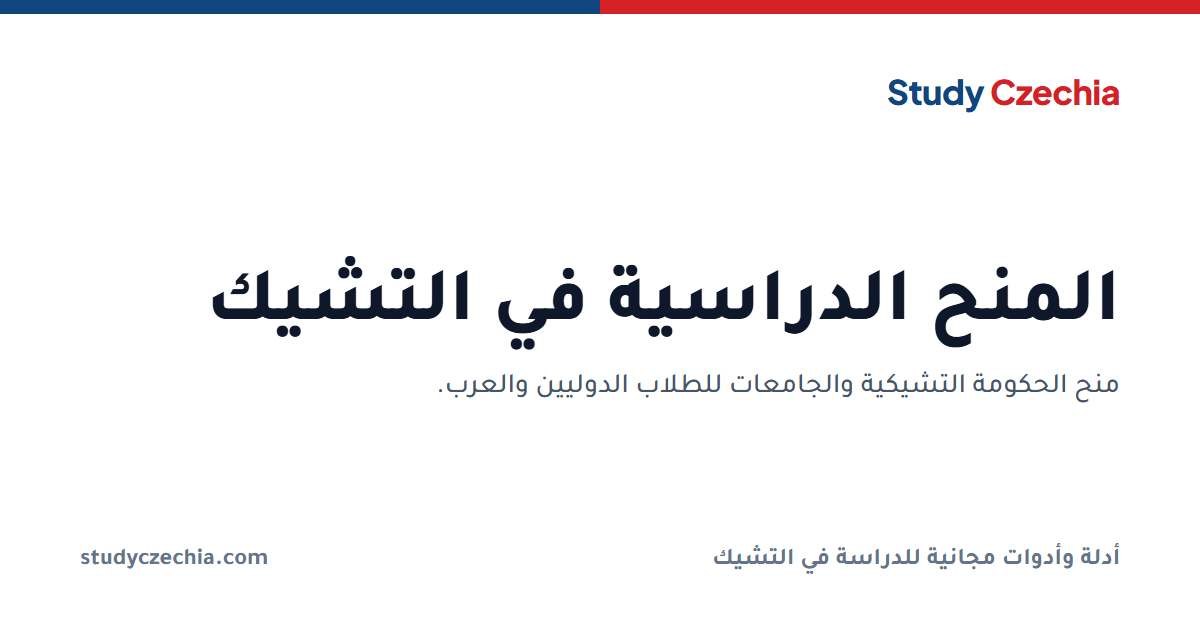
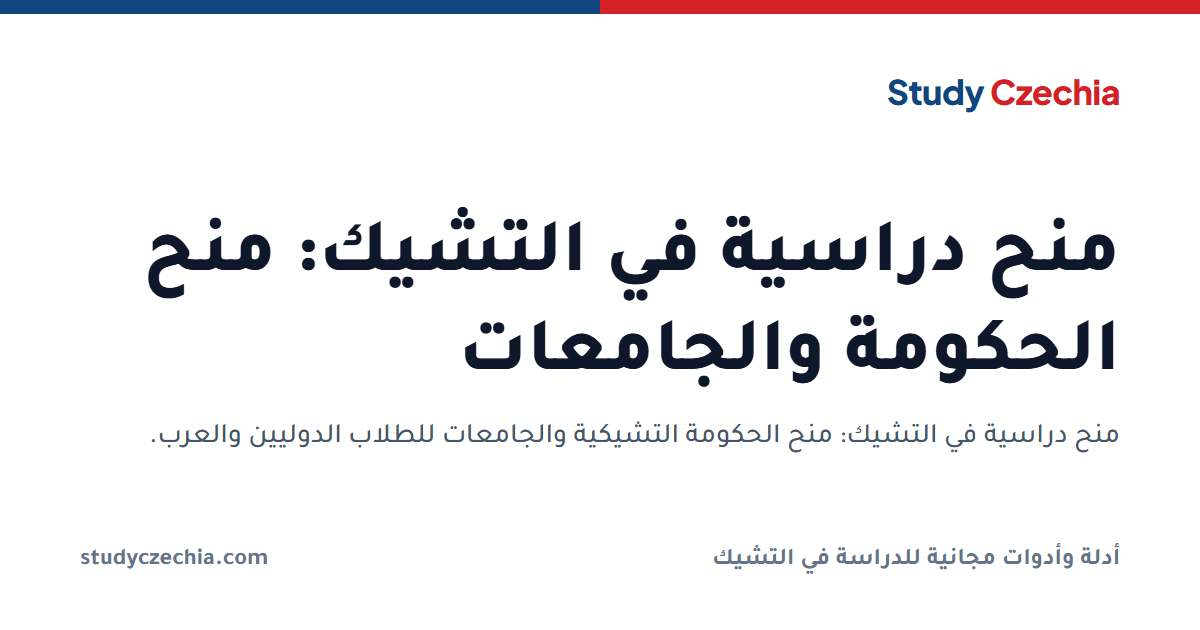
feat: optimize Arabic SEO metadata for searches from Egypt
Uses the exact phrases Egyptian students type in Arabic page titles:
- Home: "الدراسة في التشيك 2027 | جامعات مجانية، شروط القبول، والمواعيد
  النهائية"; description says free study is in Czech (Charles, VUT),
  so it doesn't suggest English programmes there are free
- Eligibility: "شروط القبول في جامعات التشيك"
- Cost of living: "تكاليف المعيشة في براغ والتشيك للطلاب"
- Scholarships: "منح دراسية في التشيك"
- Why Czechia: "جامعات مجانية في أوروبا"
Also: text-right -> text-end in the course dashboard (the only
left/right-only class left, so it flips in Arabic). Share cards redrawn.

axe (WCAG 2.1 AA + best practice) found 0 issues on the Arabic homepage
live and locally, so there were no accessibility fixes to make.

Changed region(s): [[0.1233, 0.3317, 0.9558, 0.6333], [0.1233, 0.6635, 0.925, 0.7238]]

diff --git a/src/i18n/ar-metadata.ts b/src/i18n/ar-metadata.ts
@@ -5,9 +5,9 @@ const SITE_URL = process.env.NEXT_PUBLIC_SITE_URL || "https://studyczechia.com";
 /** Arabic titles and descriptions for the static pages (Modern Standard Arabic for search). */
 export const AR_PAGE_META: Record<string, { title: string; description: string }> = {
   "/": {
-    title: "الدراسة في التشيك | جامعات مجانية، مواعيد التقديم، وشروط القبول",
+    title: "الدراسة في التشيك 2027 | جامعات مجانية، شروط القبول، والمواعيد النهائية",
     description:
-      "دليلك الشامل للدراسة في جمهورية التشيك. اعرف شروط الدراسة في تشيكيا، الجامعات المجانية، جامعة تشارلز، VUT، و CTU. مواعيد التقديم والتكاليف.",
+      "دليلك الشامل والموثوق للدراسة في جمهورية التشيك. اعرف شروط القبول، مواعيد التقديم، الدراسة المجانية باللغة التشيكية في جامعات مثل جامعة تشارلز و VUT، وتكاليف المعيشة. بدون رسوم وكالات.",
   },
   "/about/": {
     title: "من نحن",
@@ -46,7 +46,7 @@ export const AR_PAGE_META: Record<string, { title: string; description: string }
     description: "راسلنا على واتساب أو البريد الإلكتروني بخصوص الدراسة في التشيك.",
   },
   "/cost-of-living/": {
-    title: "تكاليف المعيشة في التشيك",
+    title: "تكاليف المعيشة في براغ والتشيك للطلاب",
     description: "تكاليف السكن والأكل والمواصلات في براغ وبرنو وأوسترافا بأرقام حقيقية من طالب يعيش هناك.",
   },
   "/courses/": {
@@ -60,7 +60,7 @@ export const AR_PAGE_META: Record<string, { title: string; description: string }
     description: "مواعيد التقديم في جامعات التشيك للدراسة في تشيكيا، وأغلبها نهاية فبراير. البرامج بالإنجليزية، والدراسة بالمجان باللغة التشيكية في الجامعات الحكومية، وخطوات السفر للتشيك. الدراسة بالمجان في أوروبا تبدأ بمعرفة المواعيد.",
   },
   "/eligibility/": {
-    title: "هل يمكنني الدراسة في التشيك؟ اختبار الأهلية",
+    title: "شروط القبول في جامعات التشيك: هل يمكنني الدراسة في التشيك؟",
     description: "اعرف أهليتك للقبول في الجامعات التشيكية خلال 5 دقائق: الدرجات، والأوراق، والإثبات المالي، والجدول الزمني للتأشيرة.",
   },
   "/interview-prep/": {
@@ -87,8 +87,8 @@ export const AR_PAGE_META: Record<string, { title: string; description: string }
     description: "تقارن بين وكالات الدراسة في التشيك مثل توب اديو (Top Edu) وMSM Academy؟ ثمانية أسئلة اسألها لأي وكالة قبل أن تدفع، بما فيها نحن. Study Czechia لا علاقة لها بهذه الشركات.",
   },
   "/scholarships/": {
-    title: "المنح الدراسية في التشيك",
-    description: "منح الحكومة التشيكية والجامعات للطلاب الدوليين والعرب.",
+    title: "منح دراسية في التشيك: منح الحكومة والجامعات",
+    description: "منح دراسية في التشيك: منح الحكومة التشيكية والجامعات للطلاب الدوليين والعرب.",
   },
   "/search/": { title: "البحث", description: "ابحث في الجامعات التشيكية بالاسم أو المدينة أو التخصص." },
   "/services/": {
@@ -111,7 +111,7 @@ export const AR_PAGE_META: Record<string, { title: string; description: string }
   },
   "/verify/": { title: "التحقق من الشهادة", description: "تحقق من شهادة إتمام كورس Study Czechia." },
   "/why-czechia/": {
-    title: "لماذا الدراسة في التشيك: التكاليف والمدن والبرامج",
+    title: "لماذا الدراسة في التشيك: جامعات مجانية في أوروبا، والتكاليف والمدن",
     description:
       "لماذا يختار الطلاب الدوليون التشيك: رسوم مجانية أو منخفضة، وبرامج بالإنجليزية، ومدن آمنة، وشهادة أوروبية. حقائق وأرقام موثقة، وبرامج حسب التخصص والمدينة.",
   },

diff --git a/src/app/courses/learn/LearnDashboard.tsx b/src/app/courses/learn/LearnDashboard.tsx
@@ -268,7 +268,7 @@ export default function LearnDashboard() {
                             {isAr ? mod.title.ar : mod.title.en}
                           </h2>
                         </div>
-                        <div className="text-right shrink-0">
+                        <div className="text-end shrink-0">
                           <span className="text-xs text-text-muted">{modProgress}%</span>
                           <div className="w-16 h-1.5 rounded-full bg-bg/50 mt-1 overflow-hidden">
                             <div
